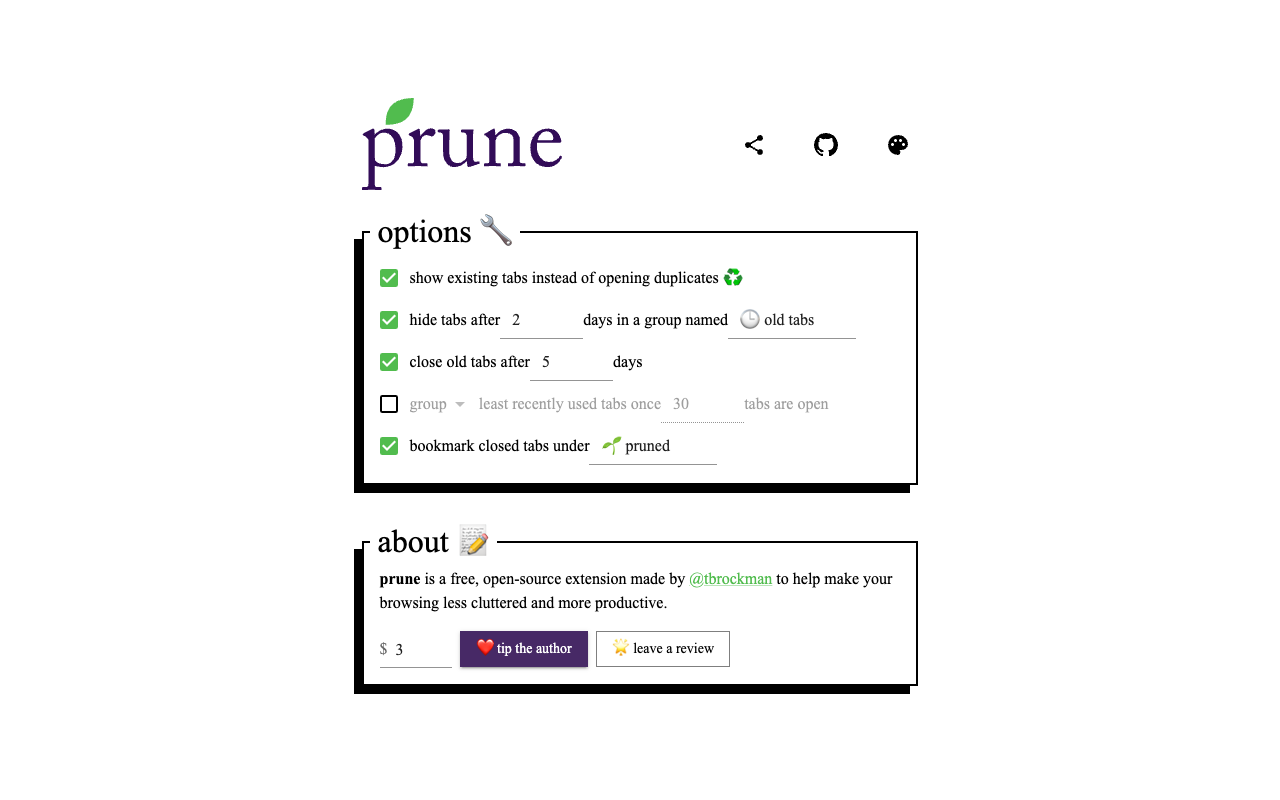
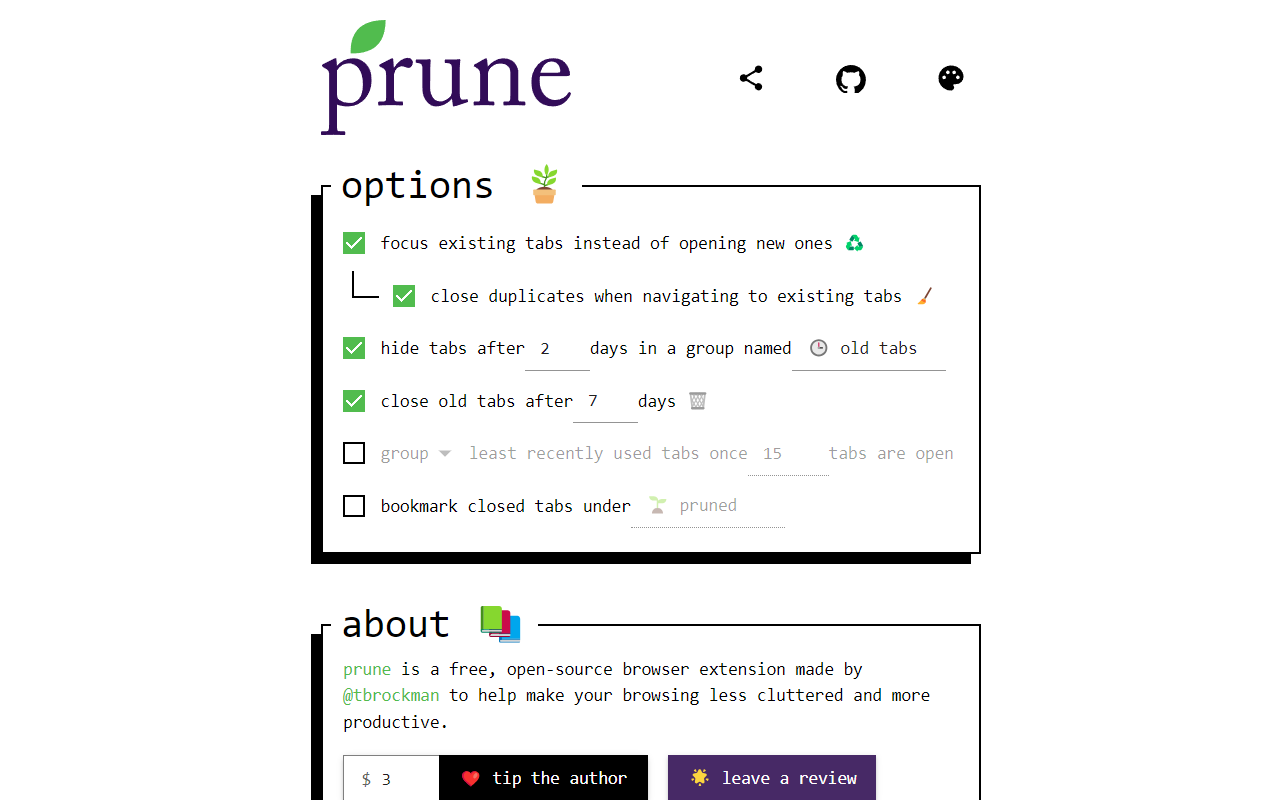
Up version. Update Chrome store posting.

diff --git a/src/tabs/store-preview.tsx b/src/tabs/store-preview.tsx
@@ -8,30 +8,7 @@ export default function OptionStorePreview() {
 	if (process.env.NODE_ENV === 'development') {
 		return (
 			// 1,280 x 800 or 640 x 400
-			<Grid container width={'640px'} height={'400px'}>
-				<div>
-					<svg width="100%" height="100" viewBox="0 0 100 100" xmlns="http://www.w3.org/2000/svg">
-
-						<path fill="none" stroke="green" stroke-width="2" d="M0,50
-          C30,30 70,70 100,50
-          S150,30 200,50
-          S250,70 300,50
-          S350,30 400,50
-          S450,70 500,50
-          S550,30 600,50" />
-
-						<circle cx="15" cy="30" r="5" fill="green" />
-						<circle cx="60" cy="25" r="5" fill="green" />
-						<circle cx="110" cy="35" r="5" fill="green" />
-						<circle cx="160" cy="45" r="5" fill="green" />
-						<circle cx="210" cy="55" r="5" fill="green" />
-						<circle cx="260" cy="45" r="5" fill="green" />
-						<circle cx="310" cy="35" r="5" fill="green" />
-						<circle cx="360" cy="25" r="5" fill="green" />
-						<circle cx="405" cy="30" r="5" fill="green" />
-					</svg>
-
-				</div>
+			<Grid container width="1280px" justifyContent={"center"} alignItems={"center"}>
 				<Popup />
 			</Grid>
 		);

diff --git a/src/pages/PopupMain.tsx b/src/pages/PopupMain.tsx
@@ -47,7 +47,7 @@ export function PopupMain() {
 				{aboutTitle}
 			</Typography>
 			<FormGroup className="main-form-group">
-				<Typography marginTop={'8px'} marginBottom={'16px'}>
+				<Typography marginTop={'8px'} marginBottom={'16px'} maxWidth={'64ch'}>
 					<Link href='https://github.com/tbrockman/prune' underline='hover' rel="noopener" target="_blank">prune</Link> {aboutTextStart}{' '}
 					<Link href="https://theo.lol/" rel="noopener" underline='hover' target="_blank">
 						@tbrockman

diff --git a/src/components/DeduplicateBlock.tsx b/src/components/DeduplicateBlock.tsx
@@ -19,7 +19,7 @@ export function DeduplicateBlock() {
 	const closeDuplicateHint = chrome.i18n.getMessage('closeDuplicateHint');
 
 	return (
-		<FormOption>
+		<FormOption className='form-option-with-subgroup'>
 			<FormControlLabel
 				control={
 					<PersistedInput

diff --git a/src/components/FormOption.css b/src/components/FormOption.css
@@ -1,3 +1,9 @@
 .form-option {
 	padding: 0;
 }
+
+.form-option.form-option-with-subgroup {
+	display: flex;
+	flex-direction: column;
+	align-items: flex-start;
+}
